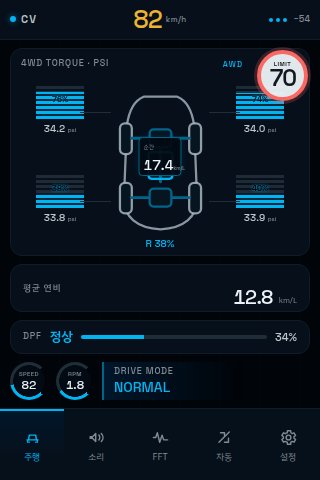
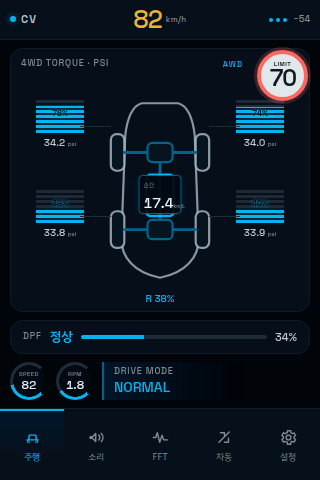
feat: expand proportional AWD display

diff --git a/ui/prototype/index.html b/ui/prototype/index.html
@@ -27,24 +27,20 @@
           <div class="card-kicker"><span>4WD TORQUE · PSI</span><strong>AWD</strong></div>
           <div class="wheel-meter wheel-meter--fl" style="--wheel-drive: 76%"><em>76%</em><span class="torque-stack"></span><strong>34.2 <small>psi</small></strong></div>
           <div class="wheel-meter wheel-meter--fr" style="--wheel-drive: 74%"><em>74%</em><span class="torque-stack"></span><strong>34.0 <small>psi</small></strong></div>
-          <div class="vehicle-plan" aria-hidden="true">
-            <svg viewBox="0 0 92 142">
-              <path class="vehicle-shell" d="M29 4C19 8 14 19 12 33L9 108c0 17 13 29 37 30 24-1 37-13 37-30l-3-75C78 19 73 8 63 4Z"/>
-              <rect class="vehicle-wheel" x="5" y="31" width="12" height="31" rx="5"/><rect class="vehicle-wheel" x="75" y="31" width="12" height="31" rx="5"/>
-              <rect class="vehicle-wheel" x="5" y="91" width="12" height="31" rx="5"/><rect class="vehicle-wheel" x="75" y="91" width="12" height="31" rx="5"/>
-              <path class="driveline" d="M17 46h19m20 0h19M46 55v35M17 106h19m20 0h19"/>
-              <rect class="differential" x="35" y="37" width="22" height="18" rx="4"/><rect class="differential" x="35" y="97" width="22" height="18" rx="4"/>
-              <rect class="coupling" x="34" y="60" width="24" height="27" rx="3"/>
+          <div class="vehicle-plan">
+            <svg viewBox="0 0 112 190" aria-hidden="true">
+              <path class="vehicle-shell" d="M37 4C27 7 22 20 20 37L16 143c-1 21 14 37 40 42 26-5 41-21 40-42L92 37C90 20 85 7 75 4Z"/>
+              <rect class="vehicle-wheel" x="5" y="36" width="14" height="38" rx="6"/><rect class="vehicle-wheel" x="93" y="36" width="14" height="38" rx="6"/>
+              <rect class="vehicle-wheel" x="5" y="116" width="14" height="38" rx="6"/><rect class="vehicle-wheel" x="93" y="116" width="14" height="38" rx="6"/>
+              <path class="driveline" d="M19 55h24m26 0h24M56 67v56M19 135h24m26 0h24"/>
+              <rect class="differential" x="43" y="45" width="26" height="20" rx="5"/><rect class="differential" x="43" y="125" width="26" height="20" rx="5"/>
+              <rect class="coupling" x="42" y="78" width="28" height="43" rx="4"/>
             </svg>
-            <div class="vehicle-instant"><span>순간</span><strong>17.4</strong><small>km/L</small></div>
+            <div class="vehicle-instant" aria-label="순간 연비 17.4 킬로미터 매 리터"><span>순간</span><strong>17.4</strong><small>km/L</small></div>
             <b class="rear-coupling">R 38%</b>
           </div>
           <div class="wheel-meter wheel-meter--rl" style="--wheel-drive: 38%"><em>38%</em><span class="torque-stack"></span><strong>33.8 <small>psi</small></strong></div>
           <div class="wheel-meter wheel-meter--rr" style="--wheel-drive: 40%"><em>40%</em><span class="torque-stack"></span><strong>33.9 <small>psi</small></strong></div>
-        </article>
-
-        <article class="economy-card" aria-label="평균 연비 12.8 킬로미터 매 리터">
-          <div><span class="micro-label">평균 연비</span><strong>12.8</strong><small>km/L</small></div>
         </article>
 
         <article class="dpf-card" aria-label="DPF 상태 정상">

diff --git a/ui/prototype/canview.css b/ui/prototype/canview.css
@@ -194,12 +194,11 @@ button { cursor: pointer; }
 }
 
 .drive-panel.is-active {
-  grid-template-rows: 208px 48px 34px 38px;
+  grid-template-rows: 264px 34px 38px;
   gap: 8px;
 }
 
 .drivetrain-card,
-.economy-card,
 .dpf-card,
 .volume-card,
 .spectrum-card,
@@ -243,10 +242,10 @@ button { cursor: pointer; }
   padding: 0;
 }
 
-.wheel-meter--fl { left: 18px; top: 35px; }
-.wheel-meter--fr { right: 18px; top: 35px; }
-.wheel-meter--rl { left: 18px; top: 124px; }
-.wheel-meter--rr { right: 18px; top: 124px; }
+.wheel-meter--fl { left: 18px; top: 49px; }
+.wheel-meter--fr { right: 18px; top: 49px; }
+.wheel-meter--rl { left: 18px; top: 139px; }
+.wheel-meter--rr { right: 18px; top: 139px; }
 
 .torque-stack {
   width: 48px;
@@ -304,8 +303,8 @@ button { cursor: pointer; }
 .wheel-meter small { color: var(--color-muted); font-size: 6px; font-weight: 500; }
 
 .vehicle-plan {
-  width: 104px;
-  height: 174px;
+  width: 122px;
+  height: 229px;
   position: absolute;
   left: 50%;
   top: 27px;
@@ -315,8 +314,8 @@ button { cursor: pointer; }
 }
 
 .vehicle-plan svg {
-  width: 91px;
-  height: 142px;
+  width: 108px;
+  height: 184px;
   fill: none;
   stroke: var(--color-ink-2);
   stroke-width: 2.3;
@@ -331,7 +330,7 @@ button { cursor: pointer; }
 .vehicle-plan .coupling { fill: rgb(0 188 255 / 9%); stroke: var(--color-accent); }
 .vehicle-instant {
   position: absolute;
-  top: 61px;
+  top: 99px;
   left: 50%;
   width: 43px;
   height: 39px;
@@ -367,40 +366,6 @@ button { cursor: pointer; }
   font-size: 10px;
   font-weight: 500;
 }
-
-.economy-card {
-  display: grid;
-  grid-template-columns: 1fr;
-  overflow: hidden;
-}
-
-.economy-card > div {
-  display: grid;
-  grid-template-columns: 1fr auto;
-  grid-template-rows: auto 1fr;
-  align-items: end;
-  padding: 5px 12px 4px;
-}
-
-.economy-card > div + div { border-left: 1px solid var(--color-rule-2); }
-
-.economy-card .micro-label { align-self: center; }
-
-.economy-card strong {
-  font-family: var(--font-display);
-  font-size: 20px;
-  font-weight: 500;
-  letter-spacing: -.04em;
-  line-height: 1;
-}
-
-.economy-card > div {
-  grid-template-columns: 1fr auto auto;
-  grid-template-rows: 1fr;
-  gap: 6px;
-}
-
-.economy-card small { color: var(--color-muted); font-size: 8px; padding-bottom: 2px; }
 
 .dpf-card {
   display: grid;

diff --git a/ui/lvgl/canview_ui.c b/ui/lvgl/canview_ui.c
@@ -46,7 +46,6 @@ typedef struct {
     lv_obj_t *speed_label;
     lv_obj_t *rpm_arc;
     lv_obj_t *rpm_label;
-    lv_obj_t *average_economy_label;
     lv_obj_t *instant_economy_label;
     lv_obj_t *dpf_label;
     lv_obj_t *dpf_load_label;
@@ -526,7 +525,7 @@ static void create_drive_screen(void)
     lv_obj_t *screen = make_screen();
     ui.screens[CANVIEW_UI_SCREEN_DRIVE] = screen;
 
-    lv_obj_t *four_wd = make_card(screen, LV_PCT(100), 208, false);
+    lv_obj_t *four_wd = make_card(screen, LV_PCT(100), 264, false);
     lv_obj_set_style_pad_all(four_wd, 8, 0);
     lv_obj_t *four_wd_title = make_label(four_wd, "4WD TORQUE · PSI");
     lv_obj_add_style(four_wd_title, &style_label_micro, 0);
@@ -536,7 +535,7 @@ static void create_drive_screen(void)
     lv_obj_set_style_text_color(awd_label, CANVIEW_COLOR_ACCENT, 0);
 
     static const lv_coord_t wheel_x[CANVIEW_UI_WHEEL_COUNT] = {10, 208, 10, 208};
-    static const lv_coord_t wheel_y[CANVIEW_UI_WHEEL_COUNT] = {28, 28, 116, 116};
+    static const lv_coord_t wheel_y[CANVIEW_UI_WHEEL_COUNT] = {38, 38, 132, 132};
     for (uint8_t i = 0; i < CANVIEW_UI_WHEEL_COUNT; ++i) {
         lv_obj_t *wheel = lv_obj_create(four_wd);
         lv_obj_remove_style_all(wheel);
@@ -564,27 +563,27 @@ static void create_drive_screen(void)
         lv_obj_set_style_text_color(ui.wheel_pressure_labels[i], CANVIEW_COLOR_INK_2, 0);
     }
 
-    static const lv_coord_t connector_x[CANVIEW_UI_WHEEL_COUNT] = {72, 180, 72, 180};
-    static const lv_coord_t connector_y[CANVIEW_UI_WHEEL_COUNT] = {50, 50, 138, 138};
+    static const lv_coord_t connector_x[CANVIEW_UI_WHEEL_COUNT] = {72, 188, 72, 188};
+    static const lv_coord_t connector_y[CANVIEW_UI_WHEEL_COUNT] = {60, 60, 154, 154};
     for (uint8_t i = 0; i < CANVIEW_UI_WHEEL_COUNT; ++i) {
         lv_obj_t *connector = lv_obj_create(four_wd);
         lv_obj_remove_style_all(connector);
         lv_obj_set_pos(connector, connector_x[i], connector_y[i]);
-        lv_obj_set_size(connector, 28, 1);
+        lv_obj_set_size(connector, 20, 1);
         lv_obj_set_style_bg_color(connector, CANVIEW_COLOR_RULE, 0);
         lv_obj_set_style_bg_opa(connector, LV_OPA_COVER, 0);
     }
 
     lv_obj_t *vehicle = lv_obj_create(four_wd);
     lv_obj_remove_style_all(vehicle);
-    lv_obj_set_pos(vehicle, 94, 22);
-    lv_obj_set_size(vehicle, 92, 174);
+    lv_obj_set_pos(vehicle, 84, 22);
+    lv_obj_set_size(vehicle, 112, 230);
     lv_obj_clear_flag(vehicle, LV_OBJ_FLAG_SCROLLABLE);
 
     static lv_point_t vehicle_outline[] = {
-        {29, 4}, {20, 8}, {14, 20}, {12, 34}, {9, 108}, {12, 124},
-        {25, 136}, {46, 139}, {67, 136}, {80, 124}, {83, 108}, {80, 34},
-        {78, 20}, {63, 4}, {29, 4}};
+        {37, 4}, {27, 7}, {22, 20}, {20, 37}, {16, 143}, {17, 164},
+        {30, 181}, {56, 186}, {82, 181}, {95, 164}, {96, 143}, {92, 37},
+        {90, 20}, {85, 7}, {75, 4}, {37, 4}};
     lv_obj_t *outline = lv_line_create(vehicle);
     lv_line_set_points(outline, vehicle_outline,
                        sizeof(vehicle_outline) / sizeof(vehicle_outline[0]));
@@ -592,51 +591,51 @@ static void create_drive_screen(void)
     lv_obj_set_style_line_width(outline, 2, 0);
     lv_obj_set_style_line_rounded(outline, true, 0);
 
-    static const lv_coord_t car_wheel_x[CANVIEW_UI_WHEEL_COUNT] = {5, 75, 5, 75};
-    static const lv_coord_t car_wheel_y[CANVIEW_UI_WHEEL_COUNT] = {31, 31, 91, 91};
+    static const lv_coord_t car_wheel_x[CANVIEW_UI_WHEEL_COUNT] = {5, 93, 5, 93};
+    static const lv_coord_t car_wheel_y[CANVIEW_UI_WHEEL_COUNT] = {36, 36, 116, 116};
     for (uint8_t i = 0; i < CANVIEW_UI_WHEEL_COUNT; ++i) {
         lv_obj_t *car_wheel = lv_obj_create(vehicle);
         lv_obj_remove_style_all(car_wheel);
         lv_obj_set_pos(car_wheel, car_wheel_x[i], car_wheel_y[i]);
-        lv_obj_set_size(car_wheel, 12, 31);
+        lv_obj_set_size(car_wheel, 14, 38);
         lv_obj_set_style_bg_color(car_wheel, CANVIEW_COLOR_PAPER_3, 0);
         lv_obj_set_style_bg_opa(car_wheel, LV_OPA_COVER, 0);
         lv_obj_set_style_border_color(car_wheel, CANVIEW_COLOR_INK_2, 0);
         lv_obj_set_style_border_width(car_wheel, 2, 0);
-        lv_obj_set_style_radius(car_wheel, 5, 0);
+        lv_obj_set_style_radius(car_wheel, 6, 0);
     }
 
-    static const lv_coord_t axle_y[] = {46, 106};
+    static const lv_coord_t axle_y[] = {55, 135};
     for (uint8_t i = 0; i < 2U; ++i) {
         lv_obj_t *axle = lv_obj_create(vehicle);
         lv_obj_remove_style_all(axle);
-        lv_obj_set_pos(axle, 17, axle_y[i]);
-        lv_obj_set_size(axle, 58, 3);
+        lv_obj_set_pos(axle, 19, axle_y[i]);
+        lv_obj_set_size(axle, 74, 3);
         lv_obj_set_style_bg_color(axle, CANVIEW_COLOR_ACCENT_LINE, 0);
         lv_obj_set_style_bg_opa(axle, LV_OPA_COVER, 0);
 
         lv_obj_t *differential = lv_obj_create(vehicle);
         lv_obj_remove_style_all(differential);
-        lv_obj_set_pos(differential, 35, (lv_coord_t)(axle_y[i] - 9));
-        lv_obj_set_size(differential, 22, 18);
+        lv_obj_set_pos(differential, 43, (lv_coord_t)(axle_y[i] - 10));
+        lv_obj_set_size(differential, 26, 20);
         lv_obj_set_style_bg_color(differential, CANVIEW_COLOR_PAPER_3, 0);
         lv_obj_set_style_bg_opa(differential, LV_OPA_COVER, 0);
         lv_obj_set_style_border_color(differential, CANVIEW_COLOR_ACCENT_LINE, 0);
         lv_obj_set_style_border_width(differential, 2, 0);
-        lv_obj_set_style_radius(differential, 4, 0);
+        lv_obj_set_style_radius(differential, 5, 0);
     }
 
     lv_obj_t *shaft = lv_obj_create(vehicle);
     lv_obj_remove_style_all(shaft);
-    lv_obj_set_pos(shaft, 45, 55);
-    lv_obj_set_size(shaft, 3, 43);
+    lv_obj_set_pos(shaft, 55, 67);
+    lv_obj_set_size(shaft, 3, 56);
     lv_obj_set_style_bg_color(shaft, CANVIEW_COLOR_ACCENT_LINE, 0);
     lv_obj_set_style_bg_opa(shaft, LV_OPA_COVER, 0);
 
     lv_obj_t *instant = lv_obj_create(vehicle);
     lv_obj_remove_style_all(instant);
-    lv_obj_set_pos(instant, 23, 59);
-    lv_obj_set_size(instant, 46, 41);
+    lv_obj_set_pos(instant, 31, 78);
+    lv_obj_set_size(instant, 50, 48);
     lv_obj_set_style_bg_color(instant, CANVIEW_COLOR_PAPER, 0);
     lv_obj_set_style_bg_opa(instant, LV_OPA_COVER, 0);
     lv_obj_set_style_border_color(instant, CANVIEW_COLOR_ACCENT_LINE, 0);
@@ -650,23 +649,8 @@ static void create_drive_screen(void)
     lv_obj_set_style_text_color(ui.instant_economy_label, CANVIEW_COLOR_INK, 0);
 
     ui.four_wd_label = make_label(vehicle, "R —%");
-    lv_obj_align(ui.four_wd_label, LV_ALIGN_BOTTOM_MID, 0, 0);
+    lv_obj_align(ui.four_wd_label, LV_ALIGN_BOTTOM_MID, 0, -3);
     lv_obj_set_style_text_color(ui.four_wd_label, CANVIEW_COLOR_ACCENT, 0);
-
-    lv_obj_t *economy = make_card(screen, LV_PCT(100), 48, true);
-    lv_obj_set_style_pad_all(economy, 0, 0);
-    lv_obj_t *economy_title = make_label(economy, "평균 연비");
-    lv_obj_align(economy_title, LV_ALIGN_LEFT_MID, 10, 0);
-    lv_obj_add_style(economy_title, &style_label_micro, 0);
-    ui.average_economy_label = make_label(economy, "—");
-    lv_obj_align(ui.average_economy_label, LV_ALIGN_RIGHT_MID, -31, 0);
-    lv_obj_set_style_text_font(ui.average_economy_label,
-                               ui.config.metric_font != NULL ? ui.config.metric_font
-                                                             : LV_FONT_DEFAULT,
-                               0);
-    lv_obj_t *economy_unit = make_label(economy, "km/L");
-    lv_obj_align(economy_unit, LV_ALIGN_RIGHT_MID, -5, 5);
-    lv_obj_add_style(economy_unit, &style_label_micro, 0);
 
     lv_obj_t *dpf = make_card(screen, LV_PCT(100), 34, true);
     lv_obj_set_style_pad_all(dpf, 8, 0);
@@ -1148,12 +1132,8 @@ void canview_ui_update(const canview_ui_model_t *model)
     animate_arc_to(ui.rpm_arc, model->engine_rpm);
 
     if (model->fuel_economy_quality == CANVIEW_UI_QUALITY_UNAVAILABLE) {
-        lv_label_set_text(ui.average_economy_label, "—");
         lv_label_set_text(ui.instant_economy_label, "—");
     } else {
-        lv_label_set_text_fmt(ui.average_economy_label, "%u.%u",
-                              model->average_fuel_economy_tenth_kmpl / 10U,
-                              model->average_fuel_economy_tenth_kmpl % 10U);
         lv_label_set_text_fmt(ui.instant_economy_label, "%u.%u",
                               model->instant_fuel_economy_tenth_kmpl / 10U,
                               model->instant_fuel_economy_tenth_kmpl % 10U);

diff --git a/docs/ui-design.md b/docs/ui-design.md
@@ -45,7 +45,7 @@ CANView는 순정 계기판을 대체하지 않는 320×480 세로형 보조 화
 ```text
 상단 36 px: CANView 상태 / 현재 속도 / 무선 상태
 본문 368 px
-├─ 주행: 대형 4WD·TPMS·중앙 순간연비 → 평균연비 → DPF → 작은 속도·RPM 원형 계기
+├─ 주행: 대형 4WD·TPMS·중앙 순간연비 → DPF → 작은 속도·RPM 원형 계기
 ├─ 소리: 취침·뒷좌석+ → 현재 음량 → Cabin FFT
 ├─ FFT: Peak·Level을 그래프 내부에 둔 대형 spectrum
 ├─ 자동: SPORT 자동화와 현재 주행 mode
@@ -58,10 +58,10 @@ CANView는 순정 계기판을 대체하지 않는 320×480 세로형 보조 화
 
 ### 3.1 주행 화면
 
-화면 면적은 4WD가 가장 크고 연비, DPF, 속도·RPM 순으로 작아진다. 352 px의 실제 본문 높이 중 208 px를 4WD에 할당해 차량과 구동계가 화면의 주인공이 되게 한다.
+화면 면적은 4WD가 압도적으로 크고 DPF, 속도·RPM 순으로 작아진다. 352 px의 실제 본문 높이 중 264 px를 4WD에 할당해 차량과 구동계가 약 75%를 차지하게 한다.
 
 - 4WD: 첨부한 순정 화면처럼 중앙 차량 outline 안에 앞·뒤 differential와 propeller shaft를 그리고, 네 바퀴 바깥쪽에 8단 수평 분절 torque bar를 대칭 배치한다. 각 bar 아래에는 해당 바퀴 공기압 `psi`를 둔다. 공개 DBC만으로 실제 바퀴 토크가 확정되지 않았으므로 데이터 모델에서는 계속 `구동 지수`로 관리한다.
-- 연비: `순간 연비`는 차량 중앙 coupling 위치의 작은 정보 창에 넣고, `평균 연비`는 4WD 바로 아래의 한 줄 영역에 표시한다. 어느 한쪽 신호가 없으면 `—`로 유지하고 서로 대체 계산하지 않는다.
+- 연비: `순간 연비`만 차량 중앙 coupling 위치의 작은 정보 창에 표시한다. 신호가 없으면 `—`로 유지한다. 평균연비는 주행 화면에 표시하지 않는다.
 - DPF: 정상일 때는 작은 청색 상태와 부하값만 표시하고, 경고가 확인될 때만 amber/red 상태로 바꾼다. DBC에는 경고등 후보만 있으므로 현재 부하율은 별도 진단 신호가 검증되기 전 데모값이다.
 - 속도·RPM: 같은 원형 arc 문법을 쓰되 화면 하단의 보조 계기로 축소한다. 현재 속도는 상단에도 항상 남는다.
 

diff --git a/README.md b/README.md
@@ -29,7 +29,7 @@
 
 ## UI prototype
 
-320×480 세로 화면에 맞춘 주행·소리·FFT·자동화·설정 UI를 HTML prototype과 LVGL 8.4 코드로 제공한다. 현대 표준형 5W의 짙은 청색 tone과 LVGL 공식 eBike·Music 등 전체 데모의 유효한 패턴을 선별했다. 주행 화면 높이의 약 60%를 순정형 4WD 구동계에 할당하고, 중앙 차량·앞뒤 differential·shaft·네 바퀴 분절 torque bar를 표시한다. 순간연비는 차량 중앙, 평균연비는 바로 아래에 두며 DPF와 작은 원형 속도·RPM이 이어진다. 현재 속도와 제한속도는 모든 화면에서 유지한다. 아래 값은 레이아웃 검토용 데모이며 실차 측정값이 아니다.
+320×480 세로 화면에 맞춘 주행·소리·FFT·자동화·설정 UI를 HTML prototype과 LVGL 8.4 코드로 제공한다. 현대 표준형 5W의 짙은 청색 tone과 LVGL 공식 eBike·Music 등 전체 데모의 유효한 패턴을 선별했다. 주행 화면 높이의 약 75%를 순정형 4WD 구동계에 할당하고, 중앙 차량·앞뒤 differential·shaft·네 바퀴 분절 torque bar를 표시한다. 순간연비는 차량 중앙에 두며 DPF와 작은 원형 속도·RPM이 이어진다. 현재 속도와 제한속도는 모든 화면에서 유지한다. 아래 값은 레이아웃 검토용 데모이며 실차 측정값이 아니다.
 
 | 주행 상태 | 소리 제어 | FFT 분석 |
 |---|---|---|
